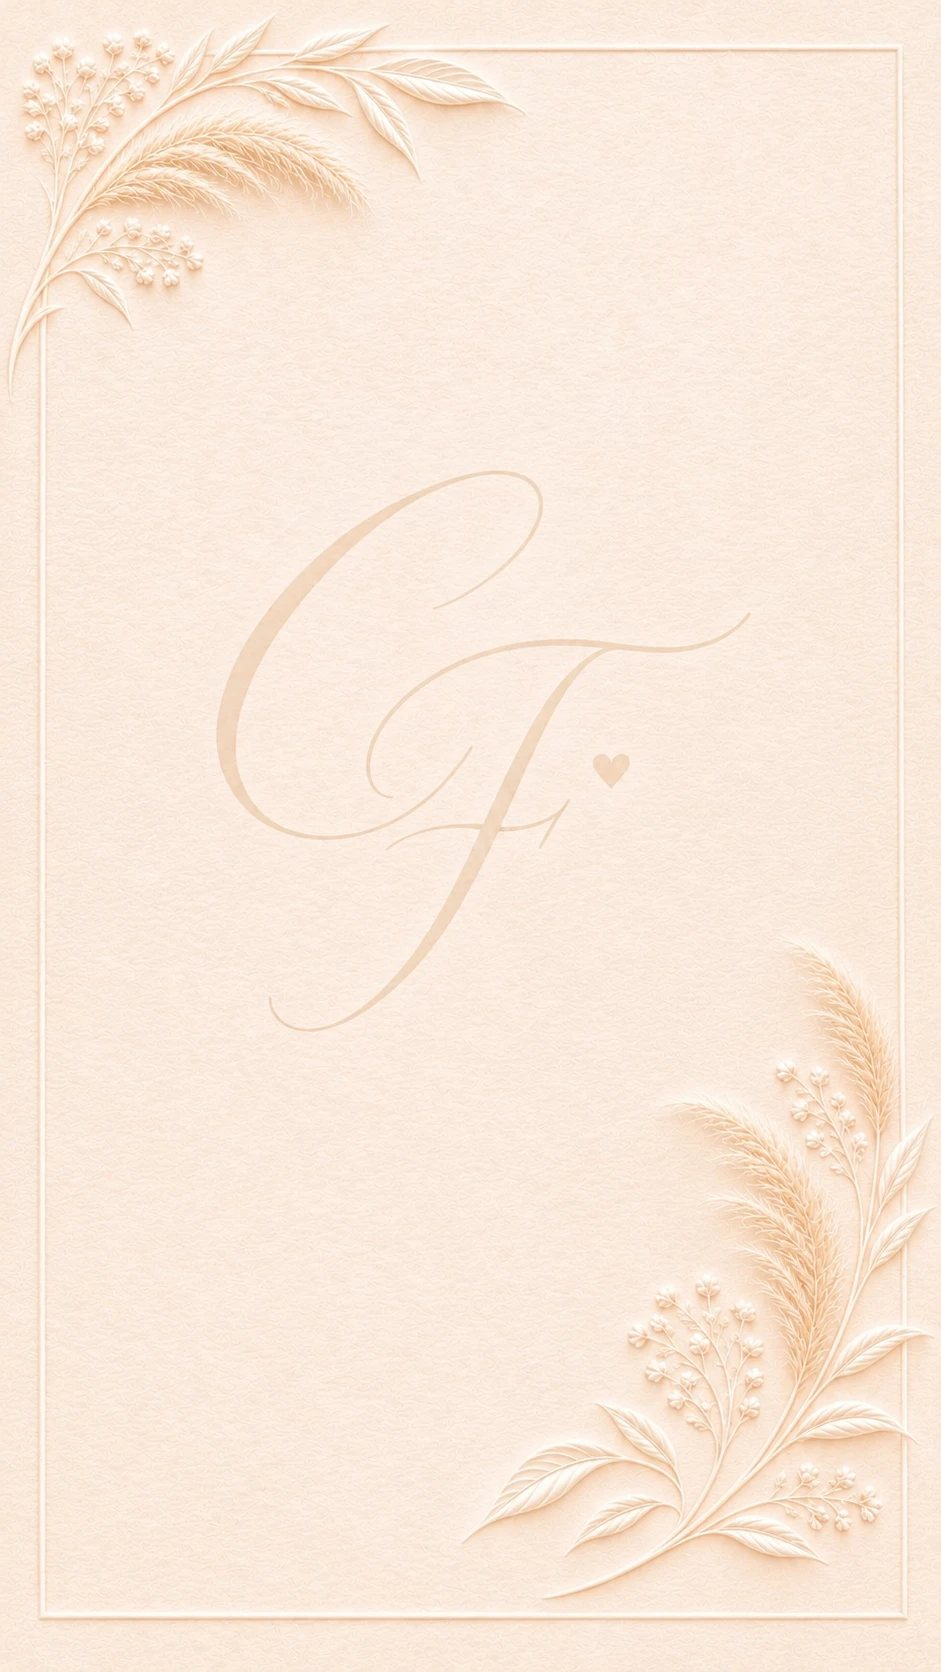
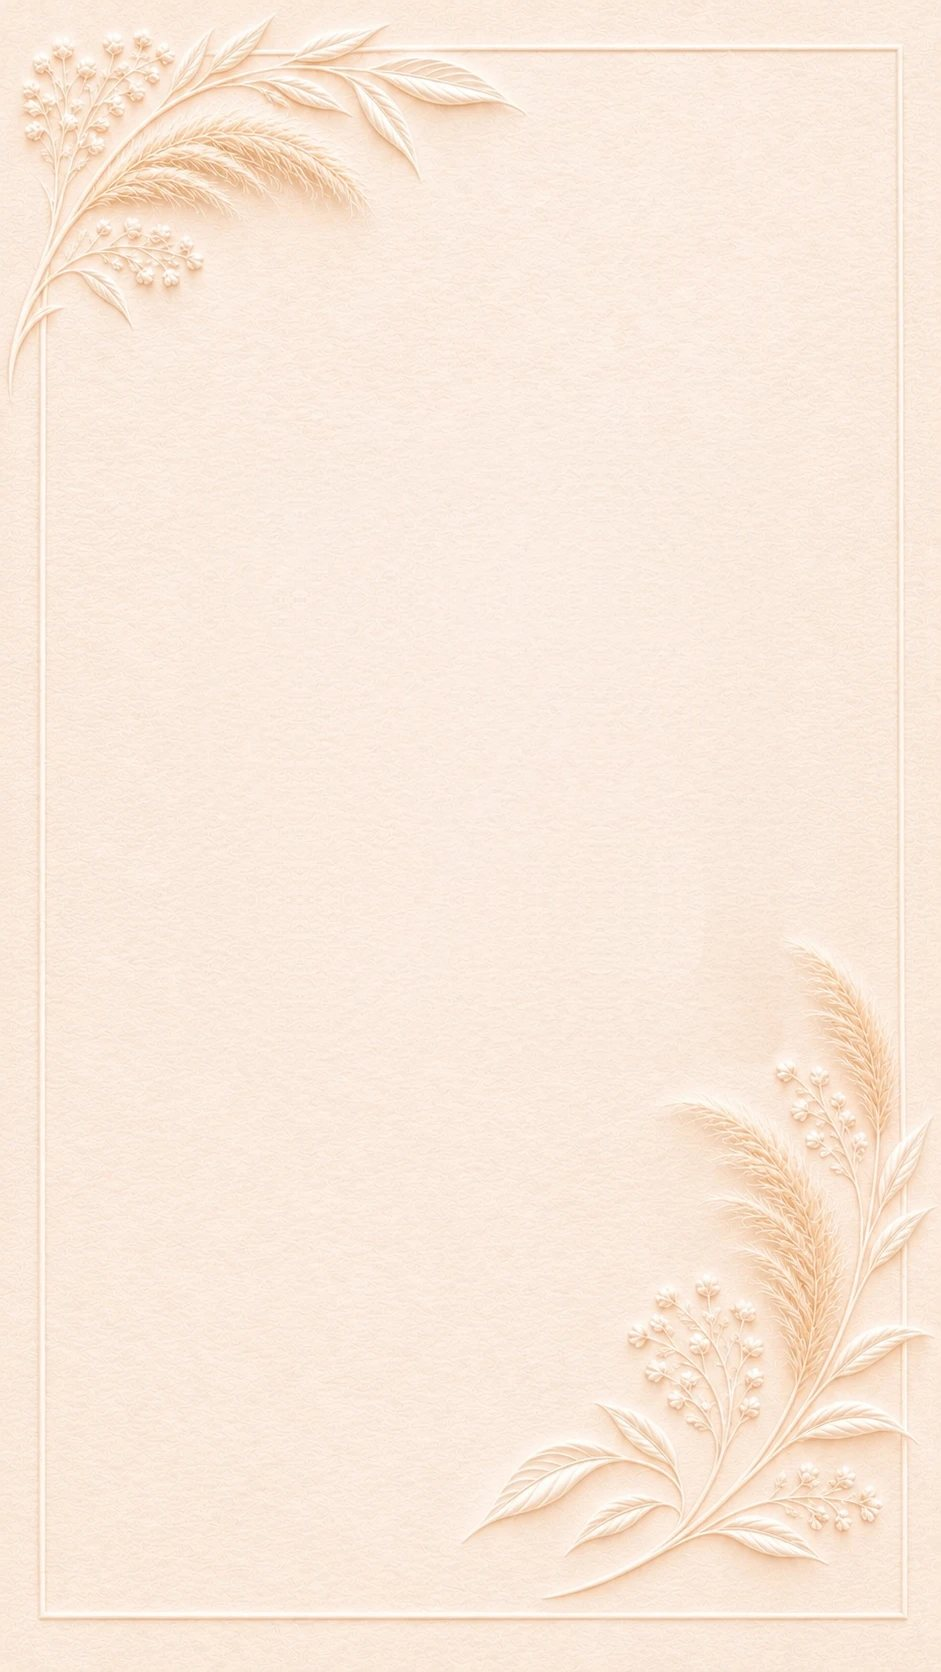
Troca o monograma, sobe os nomes e simplifica os botões
- Apaga o monograma antigo da arte e aplica o novo, com ramo e coração,
  que aparece como se fosse desenhado a pena.
- Coloca os nomes por extenso, em letra de assinatura, logo acima do
  monograma.
- Troca os botões por pílulas simples e iguais, com um brilho discreto
  que passa de tempos em tempos, e adiciona o botão do site.
- Redistribui os textos para equilibrar o convite.

Claude-Session: https://claude.ai/code/session_01DKYmJULtGc1Pn9fAHmpsL7

diff --git a/assets/style.css b/assets/style.css
@@ -296,79 +296,98 @@ img { display: block; max-width: 100%; }
 .js .texto { opacity: 0; transform: translateY(14px); filter: blur(5px); transition: opacity 1.2s ease, transform 1.2s var(--mola), filter 1.2s; transition-delay: calc(var(--i) * .45s + .5s); }
 .js .pronto .texto { opacity: 1; transform: none; filter: none; }
 
-/* Textos do convite, como no PDF */
+/* Textos do convite */
+.surge { margin: 0; }
+.js .surge { opacity: 0; transform: translateY(12px); filter: blur(4px); transition: opacity 1.1s ease, transform 1.1s var(--mola), filter 1.1s; transition-delay: calc(var(--i) * .3s + .3s); }
+.js .pronto .surge { opacity: 1; transform: none; filter: none; }
+
+/* Nomes por extenso, logo acima do monograma */
+.t-nomes {
+  left: 6%; right: 6%; top: 19.6%;
+  text-align: center;
+  font-family: var(--assinatura); font-weight: 400;
+  font-size: 30px; font-size: 10.2cqw; line-height: 1.15; letter-spacing: .01em;
+  color: var(--tinta-convite);
+}
+.js .texto.t-nomes { transform: translateY(12px); }
+.js .pronto .texto.t-nomes { transform: none; }
+
+/* Monograma com ramo e coração, desenhado como a pena */
+.t-monograma {
+  position: absolute; left: 50%; top: 27.6%;
+  width: 58%; height: auto;
+  transform: translateX(-48%);
+  pointer-events: none;
+}
+.js .t-monograma {
+  -webkit-mask-image: linear-gradient(100deg, #000 40%, transparent 60%);
+          mask-image: linear-gradient(100deg, #000 40%, transparent 60%);
+  -webkit-mask-size: 300% 100%; mask-size: 300% 100%;
+  -webkit-mask-position: 100% 0; mask-position: 100% 0;
+}
+.js .pronto .t-monograma { animation: desenhar 2.4s ease-in-out .15s forwards; }
+@keyframes desenhar {
+  from { -webkit-mask-position: 100% 0; mask-position: 100% 0; }
+  to   { -webkit-mask-position: 0 0; mask-position: 0 0; }
+}
+
 .t-coluna {
-  left: 7%; width: 74%; top: 61%;
+  left: 6%; width: 76%; top: 62.4%;
   display: flex; flex-direction: column; align-items: center; text-align: center;
   color: var(--tinta-convite);
 }
 .js .texto.t-coluna { opacity: 1; transform: none; filter: none; transition: none; }
-.surge { margin: 0; }
-.js .surge { opacity: 0; transform: translateY(12px); filter: blur(4px); transition: opacity 1.1s ease, transform 1.1s var(--mola), filter 1.1s; transition-delay: calc(var(--i) * .32s + .4s); }
-.js .pronto .surge { opacity: 1; transform: none; filter: none; }
-
-.t-nomes {
-  font-family: var(--assinatura); font-weight: 400;
-  font-size: 26px; font-size: 8.4cqw; line-height: 1.1; letter-spacing: .01em;
-  color: var(--tinta-convite);
-}
 .t-convite {
-  margin-top: 1.4cqw;
   font-family: var(--sans); font-style: italic; font-weight: 600;
-  font-size: 8px; font-size: 2.45cqw; line-height: 1.55; letter-spacing: .03em;
+  font-size: 8px; font-size: 2.5cqw; line-height: 1.6; letter-spacing: .03em;
 }
 .t-data {
-  margin-top: 1.6cqw;
+  margin-top: 2cqw;
   font-family: var(--sans); font-style: italic; font-weight: 600;
-  font-size: 9px; font-size: 2.85cqw; letter-spacing: .02em;
+  font-size: 10px; font-size: 3cqw; letter-spacing: .03em;
 }
-.t-arabesco { width: 20cqw; height: 2.7cqw; margin-top: 1.2cqw; overflow: visible; }
+.t-arabesco { width: 20cqw; height: 2.7cqw; margin-top: 1.6cqw; overflow: visible; }
 .t-endereco {
-  margin-top: 1.1cqw;
+  margin-top: 1.6cqw;
   font-family: var(--sans); font-weight: 600;
-  font-size: 8px; font-size: 2.35cqw; line-height: 1.5; letter-spacing: .05em;
+  font-size: 8px; font-size: 2.4cqw; line-height: 1.55; letter-spacing: .05em;
   color: inherit; text-decoration: none;
   background: linear-gradient(currentColor, currentColor) 50% 100% / 0 1px no-repeat;
   transition: background-size .4s var(--mola);
 }
 .t-endereco:hover, .t-endereco:focus-visible { background-size: 100% 1px; outline: none; }
 
-/* Botões: os dois no mesmo estilo, com ícone num círculo à esquerda */
-.t-botoes { margin-top: 3cqw; display: grid; gap: 3.9cqw; justify-items: center; }
+/* Botões simples, todos iguais, com um brilho discreto que passa de tempos em tempos */
+.t-botoes { margin-top: 4.4cqw; display: grid; gap: 2.6cqw; justify-items: center; }
 .botao {
-  position: relative; display: flex; align-items: center;
-  width: 39cqw; height: 6.2cqw; padding-left: 9.6cqw;
-  border-radius: 1.3cqw;
+  position: relative; overflow: hidden; isolation: isolate;
+  display: grid; place-items: center;
+  width: 42cqw; height: 6.4cqw;
+  border-radius: 99px;
   background: var(--cor-botao); color: #fff;
-  font-family: var(--sans); font-weight: 500; font-size: 9px; font-size: 2.6cqw; letter-spacing: .02em;
-  text-decoration: none;
-  box-shadow: 0 1.2cqw 2.6cqw -1.4cqw rgba(122,90,65,.7);
+  font-family: var(--sans); font-weight: 500;
+  font-size: 9px; font-size: 2.45cqw; letter-spacing: .16em; text-transform: uppercase;
+  text-decoration: none; white-space: nowrap;
+  box-shadow: 0 1cqw 2.4cqw -1.2cqw rgba(122,90,65,.65);
   transition: transform .35s var(--mola), background .3s, box-shadow .3s;
 }
-.botao-icone {
-  position: absolute; left: -1.6cqw; top: 50%;
-  width: 8.8cqw; height: 8.8cqw; transform: translateY(-50%);
-  display: grid; place-items: center;
-  border-radius: 50%;
-  background: #fff; color: var(--cor-botao);
-  box-shadow: 0 0 0 1.1cqw var(--cor-botao), 0 1cqw 2.4cqw -1cqw rgba(122,90,65,.6);
-  transition: transform .45s var(--mola);
+.botao::after {
+  content: ""; position: absolute; inset: 0; z-index: -1;
+  background: linear-gradient(110deg, transparent 32%, rgba(255,255,255,.42) 48%, rgba(255,246,230,.25) 54%, transparent 68%);
+  transform: translateX(-120%);
 }
-.botao-icone svg { width: 52%; height: 52%; }
-.botao-texto { white-space: nowrap; }
-.botao:hover, .botao:focus-visible { background: var(--cor-botao-escura); transform: translateY(-.6cqw); outline: none; box-shadow: 0 1.8cqw 3cqw -1.4cqw rgba(122,90,65,.8); }
-.botao:hover .botao-icone, .botao:focus-visible .botao-icone { transform: translateY(-50%) rotate(-10deg) scale(1.06); box-shadow: 0 0 0 1.1cqw var(--cor-botao-escura), 0 1cqw 2.4cqw -1cqw rgba(122,90,65,.6); }
+.js .pronto .botao::after { animation: brilhoBotao 5.5s ease-in-out 2.6s infinite; }
+.js .pronto .botao:nth-child(2)::after { animation-delay: 2.95s; }
+.js .pronto .botao:nth-child(3)::after { animation-delay: 3.3s; }
+@keyframes brilhoBotao {
+  0% { transform: translateX(-120%); }
+  22%, 100% { transform: translateX(120%); }
+}
+.botao:hover, .botao:focus-visible {
+  background: var(--cor-botao-escura); transform: translateY(-.5cqw); outline: none;
+  box-shadow: 0 1.6cqw 3cqw -1.2cqw rgba(122,90,65,.8);
+}
 .botao:focus-visible { box-shadow: 0 0 0 .5cqw #fff, 0 0 0 1cqw var(--cor-botao-escura); }
-
-.t-site {
-  margin-top: 2.2cqw;
-  font-family: var(--sans); font-weight: 600;
-  font-size: 9px; font-size: 2.7cqw; letter-spacing: .06em;
-  color: inherit; text-decoration: none;
-  background: linear-gradient(currentColor, currentColor) 50% 100% / 0 1px no-repeat;
-  transition: background-size .4s var(--mola);
-}
-.t-site:hover, .t-site:focus-visible { background-size: 100% 1px; outline: none; }
 
 /* =========================================================
    Sem JavaScript ou com pouco movimento: convite já aberto
@@ -380,7 +399,7 @@ html:not(.js) .convite { transform: none; }
 /* Pouco movimento: a abertura do envelope continua (ela só acontece com o clique),
    mas os movimentos contínuos de fundo param. */
 @media (prefers-reduced-motion: reduce) {
-  .luzes span, .dica, .selo::after { animation: none !important; }
+  .luzes span, .dica, .selo::after, .botao::after { animation: none !important; }
   .js .palco:not(.abrindo) .cena { animation: none; }
 }
 

diff --git a/index.html b/index.html
@@ -15,7 +15,7 @@
   <link rel="preconnect" href="https://fonts.googleapis.com">
   <link rel="preconnect" href="https://fonts.gstatic.com" crossorigin>
   <link href="https://fonts.googleapis.com/css2?family=Babylonica&family=Cinzel:wght@400;500&family=Gilda+Display&family=Montserrat:ital,wght@0,400;0,500;0,600;1,600&display=swap" rel="stylesheet">
-  <link rel="stylesheet" href="assets/style.css?v=2026-11-08-3">
+  <link rel="stylesheet" href="assets/style.css?v=2026-11-08-4">
   <script>document.documentElement.classList.add("js");</script>
 </head>
 <body>
@@ -35,23 +35,18 @@
       <!-- Convite -->
       <article class="convite" aria-label="Convite de casamento de Carolina e Fernando">
         <div class="convite-conteudo">
+          <h1 class="texto surge t-nomes" style="--i:1">Carolina e Fernando</h1>
+          <img class="t-monograma" src="assets/monograma-ramo.png" alt="Monograma C e F com ramo e coração">
           <div class="texto t-coluna">
-            <h1 class="surge t-nomes" style="--i:0">Carolina e Fernando</h1>
-            <p class="surge t-convite" style="--i:1">Juntamente com suas famílias convidam<br>para o seu casamento a ser realizado dia</p>
-            <p class="surge t-data" style="--i:2">20/03/2027 às 16:30</p>
-            <svg class="surge t-arabesco" style="--i:2" viewBox="0 0 120 16" aria-hidden="true"><path d="M8 11C4 7 8 2 14 4C30 9 52 12 66 8C70 7 72 4 69 3C66 2 65 6 68 8C80 14 102 12 116 5" fill="none" stroke="currentColor" stroke-width="1.3" stroke-linecap="round"/></svg>
-            <a class="surge t-endereco" style="--i:3" href="https://www.google.com/maps/search/?api=1&amp;query=Beco+dos+Feij%C3%B3s%2C+1140+-+Jardim+Viamar%2C+Viam%C3%A3o+-+RS" target="_blank" rel="noopener">Beco dos Feijós, 1140 - Jardim Viamar<br>Viamão - RS</a>
-            <nav class="surge t-botoes" style="--i:4" aria-label="Links do casamento">
-              <a class="botao" href="https://www.carolinaefernando.com.br/pages/39036805">
-                <span class="botao-icone" aria-hidden="true"><svg viewBox="0 0 24 24"><path d="M4 11h16v9H4zM3 7h18v4H3zM12 7v13M12 7C10 3 6 3 6 5.5S9.5 7 12 7ZM12 7c2-4 6-4 6-1.5S14.5 7 12 7Z" fill="none" stroke="currentColor" stroke-width="1.7" stroke-linejoin="round"/></svg></span>
-                <span class="botao-texto">Lista de presentes</span>
-              </a>
-              <a class="botao" href="https://www.carolinaefernando.com.br/pages/38839921">
-                <span class="botao-icone" aria-hidden="true"><svg viewBox="0 0 24 24"><path d="M5 12.5l4.5 4.5L19 7.5" fill="none" stroke="currentColor" stroke-width="2.6" stroke-linecap="round" stroke-linejoin="round"/></svg></span>
-                <span class="botao-texto">Confirmar presença</span>
-              </a>
+            <p class="surge t-convite" style="--i:2">Juntamente com suas famílias convidam<br>para o seu casamento a ser realizado dia</p>
+            <p class="surge t-data" style="--i:3">20/03/2027 às 16:30</p>
+            <svg class="surge t-arabesco" style="--i:3" viewBox="0 0 120 16" aria-hidden="true"><path d="M8 11C4 7 8 2 14 4C30 9 52 12 66 8C70 7 72 4 69 3C66 2 65 6 68 8C80 14 102 12 116 5" fill="none" stroke="currentColor" stroke-width="1.3" stroke-linecap="round"/></svg>
+            <a class="surge t-endereco" style="--i:4" href="https://www.google.com/maps/search/?api=1&amp;query=Beco+dos+Feij%C3%B3s%2C+1140+-+Jardim+Viamar%2C+Viam%C3%A3o+-+RS" target="_blank" rel="noopener">Beco dos Feijós, 1140 - Jardim Viamar<br>Viamão - RS</a>
+            <nav class="t-botoes" aria-label="Links do casamento">
+              <a class="surge botao" style="--i:5" href="https://www.carolinaefernando.com.br/pages/38839921">Confirmar presença</a>
+              <a class="surge botao" style="--i:5.5" href="https://www.carolinaefernando.com.br/pages/39036805">Lista de presentes</a>
+              <a class="surge botao" style="--i:6" href="https://www.carolinaefernando.com.br/">Site do casamento</a>
             </nav>
-            <a class="surge t-site" style="--i:5" href="https://www.carolinaefernando.com.br/">carolinaefernando.com.br</a>
           </div>
         </div>
       </article>
@@ -117,6 +112,6 @@
     <p class="dica">Toque no selo para abrir</p>
   </main>
 
-  <script src="assets/main.js?v=2026-11-08-3"></script>
+  <script src="assets/main.js?v=2026-11-08-4"></script>
 </body>
 </html>

diff --git a/assets/main.js b/assets/main.js
@@ -207,7 +207,7 @@
   }
 
   /* ---------- Faíscas ao clicar nos links ---------- */
-  Array.prototype.forEach.call(document.querySelectorAll(".botao, .t-site, .t-endereco"), function (a) {
+  Array.prototype.forEach.call(document.querySelectorAll(".botao, .t-endereco"), function (a) {
     a.addEventListener("click", function () {
       var c = centro(a);
       estourar(c.x, c.y, 26, 1.8);
